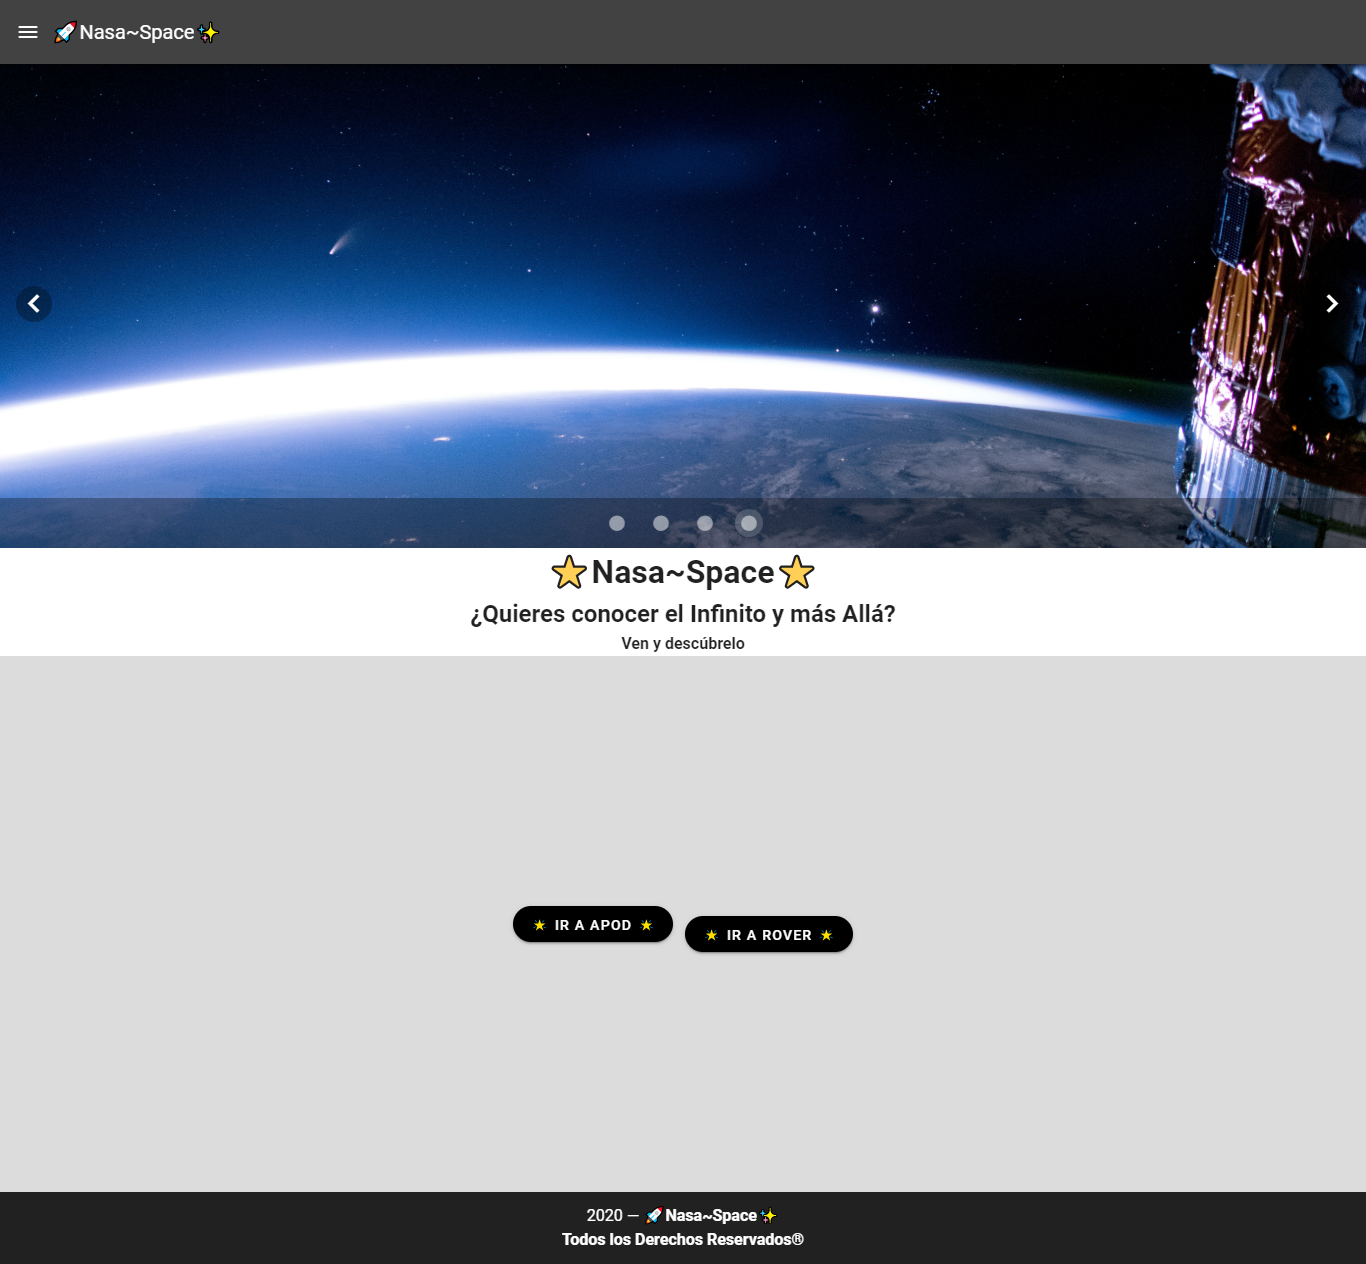
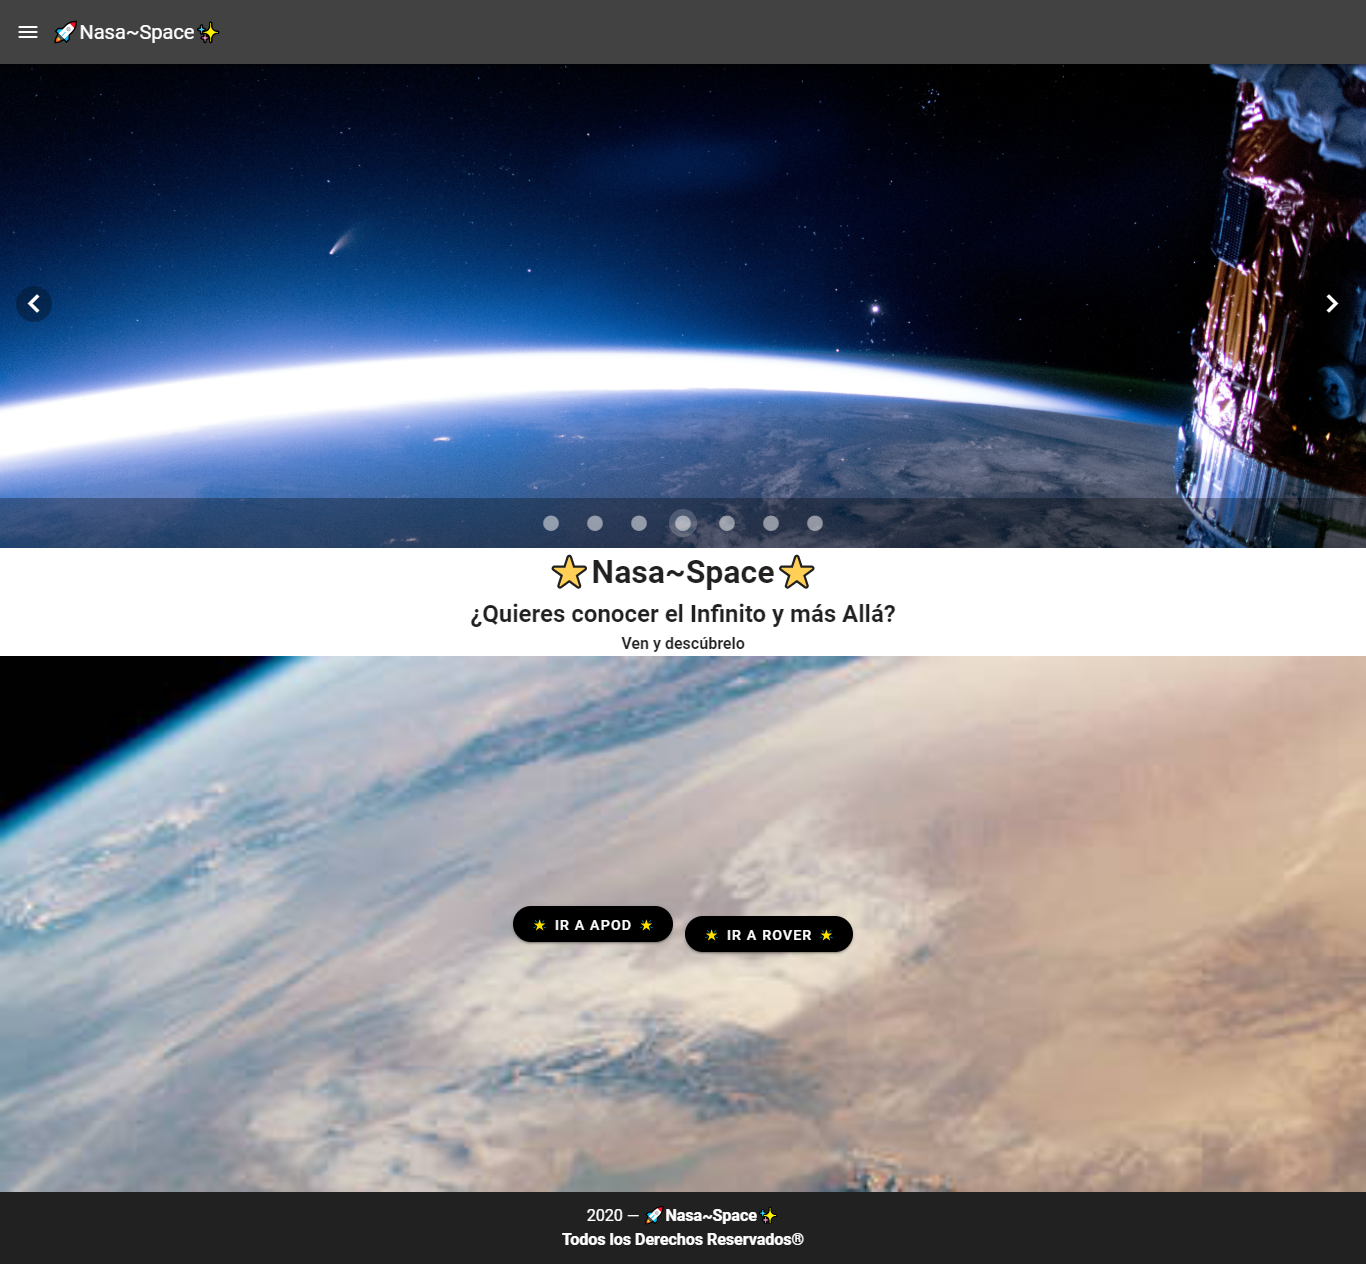
Avance 24 con arreglos adicionales en Home, NotFound, y README

diff --git a/src/views/Home.vue b/src/views/Home.vue
@@ -21,7 +21,7 @@
         <h4>Ven y descúbrelo</h4>
       </header>
       <!-- Sección botones -->
-      <section>
+      <section class="btn__container">
         <div class="text-center btn__sections">
           <v-btn class="mr-3" rounded color="black" dark to="/apod">🌟 Ir a Apod 🌟</v-btn>
           <v-btn class="mt-5" rounded color="black" dark to="/rover">🌟 Ir a Rover 🌟</v-btn>
@@ -49,7 +49,16 @@ export default {
         },
         {
           src: 'https://eoimages.gsfc.nasa.gov/images/imagerecords/146000/146996/iss063e039892_lrg.jpg',
-        }
+        },
+        {
+          src: 'https://www.nasa.gov/sites/default/files/thumbnails/image/s69-40758.jpg',
+        },
+        {
+          src: 'https://www.nasa.gov/sites/default/files/styles/full_width_feature/public/thumbnails/image/3_iss057e055409.jpg',
+        },
+        {
+          src: 'https://www.nasa.gov/sites/default/files/styles/full_width_feature/public/thumbnails/image/iss058e013234.jpg',
+        },
       ],
     }
   },
@@ -61,13 +70,20 @@ export default {
 </script>
 
 <style lang="scss">
+// Sección principal
 .home__container {
   background-color: gainsboro;
 }
+// Sección cabecera
 .header__container {
   background-color: #FFF;
 } 
 // Sección Botones
+.btn__container {
+  margin: 0;
+  background-image: url(https://www.nasa.gov/sites/default/files/styles/image_card_4x3_ratio/public/thumbnails/image/iss057e111453_lrg.jpg) !important;
+  background-size: cover !important;
+}
 .btn__sections {
   padding-top: 15em;
   padding-bottom: 15em;

diff --git a/src/views/NotFound.vue b/src/views/NotFound.vue
@@ -2,7 +2,7 @@
   <div class="not__found">
     <img class="error__404" src="error-404.png" alt="error-404">
     <div class="text-center btn__nf">
-      <v-btn rounded color="grey" to="/login">🌟 Volver a Login 🌟</v-btn>
+      <v-btn rounded color="grey" to="/home">🌟 Volver a Home 🌟</v-btn>
     </div>
   </div>
 </template>
@@ -18,12 +18,12 @@ export default {
   background-color: #000;
 }
 .error__404 {
-  width: 30em;
+  width: 20em;
   display: block;
   margin: auto;
   margin-top: 3em;
 }
 .btn__nf {
-  margin-bottom: 8.5em;
+  margin-bottom: 16em;
 }
 </style>
